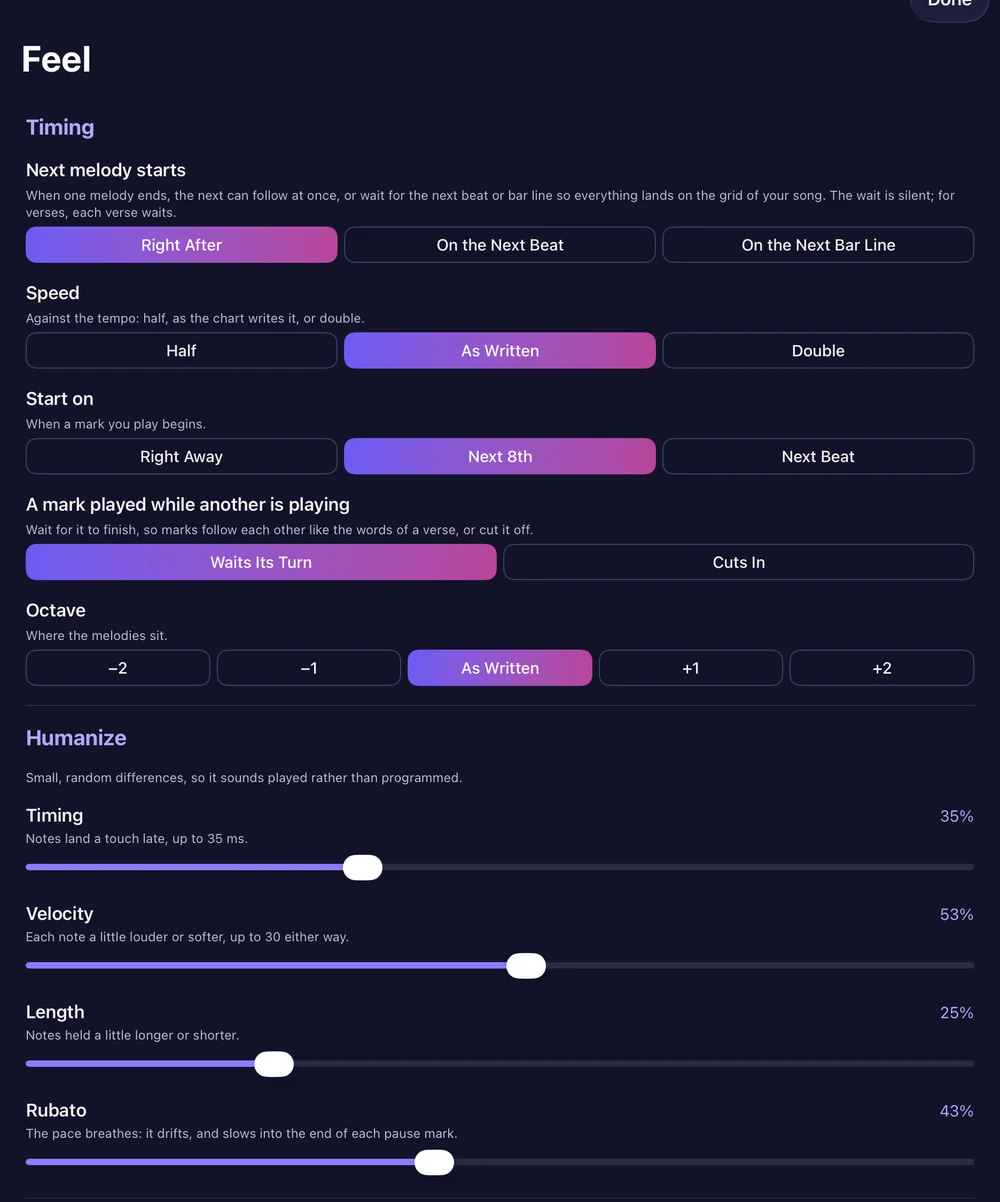
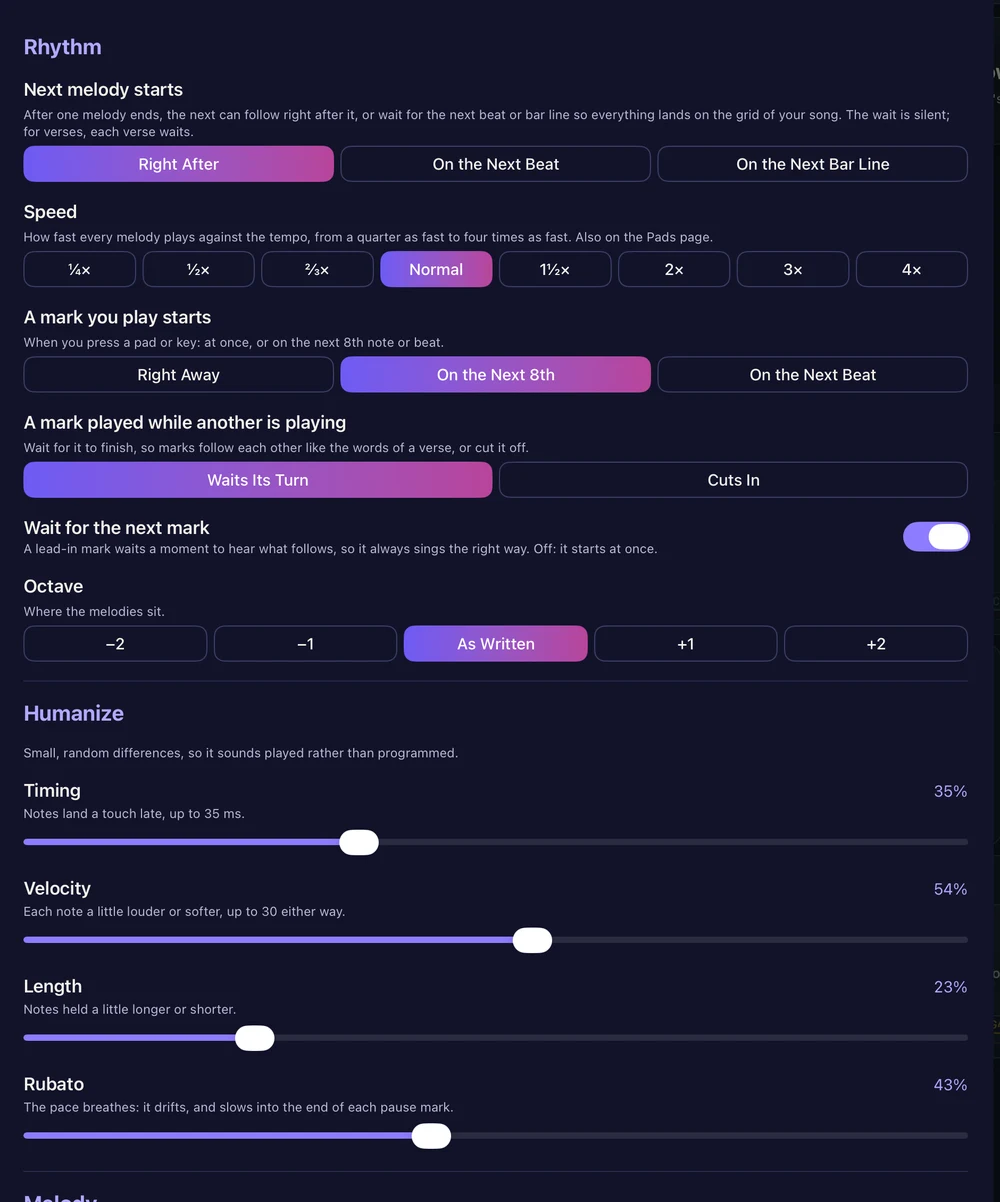
Site: By the Book, marks that change, Hold for Speed, Torah or Haftarah; screenshots retaken on build 61

diff --git a/index.html b/index.html
@@ -30,13 +30,13 @@
 <section class="hero">
   <p class="eyebrow">AUv3 MIDI effect for iPad</p>
   <h1>A melodic language your synths <em>have never spoken.</em></h1>
-  <p class="lede">Torah Tones plays the 25 melodic phrases of Torah chanting as MIDI: in any key, any mode, locked to your host's tempo. Put it in front of any synth or sampler and get phrases no arpeggiator will give you.</p>
+  <p class="lede">Torah Tones plays the 25 melodic phrases of Torah chanting as MIDI, Torah or Haftarah: in any key, any mode, locked to your host's tempo. Put it in front of any synth or sampler and get phrases no arpeggiator will give you.</p>
   <ul class="chips" aria-label="Works in"><li>AUM</li><li>Logic Pro for iPad</li><li>Loopy Pro</li><li>Cubasis</li><li>Drambo</li><li>Any AUv3 MIDI host</li></ul>
   <div class="cta">
       <a class="store-badge" data-store-live hidden href="#" aria-label="Download Torah Tones on the App Store"><picture><source srcset="img/app-store-badge-white.svg" media="(prefers-color-scheme: dark)"><img src="img/app-store-badge-black.svg" alt="Download on the App Store" width="132" height="44"></picture></a>
       <span class="soon" data-store-soon>Coming to the App Store</span>
   </div>
-  <div class="hero-shot"><img src="img/hero-ipad.webp?v=10" alt="Torah Tones on iPad: a sequence of phrases playing, with the 25 phrase pads below" width="1600" height="1200"></div>
+  <div class="hero-shot"><img src="img/hero-ipad.webp?v=11" alt="Torah Tones on iPad: Munach singing its tune before Zakef katon, By the Book lighting the marks that can come next" width="1600" height="1153"></div>
 </section>
 
 <section class="story" id="story"><div class="col">
@@ -47,8 +47,18 @@
 
 <div id="features"></div>
 <section class="feature violet">
-  <div class="text"><p class="label">Phrase pads</p><h2>25 phrases. One pad, one key each.</h2><p>Every pad fires a short melodic phrase, with its shape drawn right on the pad. Play them from the screen or from your keyboard, starting at C3, one key per phrase. Chain a few and they queue up in time, so a handful of keys plays a whole line.</p><ul><li>Phrases wait their turn, or cut each other off</li><li>The next phrase can start right away, on the next beat, or on the next bar line</li><li>Hold a key to sustain the phrase's first note, then let go for the rest</li><li>Keep them by family, in keyboard order, or drag them into your own layout</li><li>41 ready-made example lines, one tap each</li></ul></div>
-  <div class="pic"><img src="img/play-pads.webp?v=10" alt="The 25 phrase pads, grouped by family, with Sof pasuk playing" loading="lazy" width="1400" height="779"></div>
+  <div class="text"><p class="label">Phrase pads</p><h2>25 phrases. One pad, one key each.</h2><p>Every pad fires a short melodic phrase, with its shape drawn right on the pad. Play them from the screen or from your keyboard, starting at C3, one key per phrase. Chain a few and they queue up in time, so a handful of keys plays a whole line.</p><ul><li>Phrases wait their turn, or cut each other off</li><li>The next phrase can start right away, on the next beat, or on the next bar line</li><li>Hold a pad or key to play its phrase once, or repeat it until you let go</li><li>Keep them by family, in keyboard order, or drag them into your own layout; move any phrase to any key, by tapping or by MIDI learn</li><li>41 ready-made example lines, one tap each</li></ul></div>
+  <div class="pic"><img src="img/play-pads.webp?v=11" alt="The 25 phrase pads grouped by family, with Hold for Speed beside them" loading="lazy" width="1400" height="629"></div>
+</section>
+
+<section class="feature gold flip">
+  <div class="text"><p class="label">By the Book</p><h2>Play it the way a real verse goes</h2><p>Turn on By the Book and the pads follow the grammar of the Torah. After each phrase you play, the ones that can come next stay bright, the rare ones half dim, and the rest go dark, counted from all 5,846 verses. Every pad still plays, so it guides without getting in the way. Reset Verse starts again; free play is one tap away.</p><ul><li>Starts with the phrases that open a verse</li><li>Works on the Sequence page too, for realistic phrases in a few taps</li></ul></div>
+  <div class="pic"><img src="img/by-the-book.webp?v=1" alt="By the Book on: after Zakef katon, the phrases that can come next are bright and the rest are dimmed" loading="lazy" width="1400" height="774"></div>
+</section>
+
+<section class="feature teal">
+  <div class="text"><p class="label">Phrases that listen</p><h2>Some phrases change with the next one. So does this.</h2><p>In real chanting, a few phrases sing a different tune depending on what follows them: Munach before Zakef katon isn't Munach on its own. Torah Tones listens for the next phrase and sings the right one, even if you play it a moment later, and Now Playing tells you when it happens. Each family's “Munach changes here” lets you hear every change in place.</p><ul><li>Every change comes straight from the chart, for Torah and for Haftarah</li><li>Optional: let a lead-in wait a moment to hear what follows</li></ul></div>
+  <div class="pic narrow"><img src="img/changes.webp?v=1" alt="Munach changes here: Munach before Mahpach and Pashta, Munach before Zakef katon" loading="lazy" width="900" height="784"></div>
 </section>
 
 <section class="feature gold flip">
@@ -61,19 +71,29 @@
   <div class="pic"><img src="img/loop.webp?v=10" alt="A sequence of Mercha, Tipcha, Mercha, Sof pasuk and a rest, playing" loading="lazy" width="1400" height="387"></div>
 </section>
 
-<section class="feature teal flip">
-  <div class="text"><p class="label">Feel</p><h2>Played, not programmed</h2><p>Humanize the timing, velocity and note lengths. Add rubato that leans into the end of each phrase, and grace notes like a singer's. Flip phrases upside down or play them backwards, at half or double speed, for variations that still sound like they belong.</p></div>
-  <div class="pic narrow"><img src="img/feel.webp?v=9" alt="The Feel settings: timing, humanize and melody shape" loading="lazy" width="1000" height="1202"></div>
+<section class="feature violet flip">
+  <div class="text"><p class="label">Hold for speed</p><h2>Ride the speed like a DJ</h2><p>Hold a button beside the pads and every phrase plays at a quarter, half, dotted, double, triplet or four times the speed, then snaps back when you let go. Slide your finger up and down the column to move between speeds without lifting, while your other hand plays. The Speed slider sets where you come back to, from a quarter to four times, always on the beat.</p><ul><li>Keyswitches put the six speeds and four articulations (staccato to legato) on your keyboard</li><li>Learn any of them to the key you want, or put Speed and Articulation on a knob</li></ul></div>
+  <div class="pic"><img src="img/hold-speed.webp?v=1" alt="Hold for Speed: the Triplets button held while Mercha plays" loading="lazy" width="1000" height="898"></div>
 </section>
 
-<section class="feature gold">
+<section class="feature teal">
+  <div class="text"><p class="label">Feel</p><h2>Played, not programmed</h2><p>Humanize the timing, velocity and note lengths. Add rubato that leans into the end of each phrase, and grace notes like a singer's. Choose staccato to legato, and flip phrases upside down or play them backwards, for variations that still sound like they belong.</p></div>
+  <div class="pic narrow"><img src="img/feel.webp?v=10" alt="The Feel settings: when phrases start, eight speeds, humanize" loading="lazy" width="1000" height="1202"></div>
+</section>
+
+<section class="feature gold flip">
   <div class="text"><p class="label">The source</p><h2>Or play the real thing: any verse of the Torah</h2><p>Pick a book, chapter and verse, and Torah Tones plays the real passage as MIDI, word by word, each phrase fitted to its syllables, while the Hebrew lights up as it goes. Play the whole passage in time, step through it one word per key press, or loop it on your bar line.</p><ul><li>All Five Books, by chapter and verse or by weekly portion</li><li>English under every verse</li></ul></div>
   <div class="pic"><img src="img/verses.webp?v=9" alt="Genesis 1:1 to 1:3 being sent as MIDI, one word lit" loading="lazy" width="1400" height="634"></div>
 </section>
 
+<section class="feature pink">
+  <div class="text"><p class="label">Torah or Haftarah</p><h2>Two sets of melodies, one switch</h2><p>The same marks have a second set of melodies: Haftarah trope, sung for the reading from the Prophets, in a more plaintive minor. Switch at the top left and the pads, the sequence and all 40 chart lines move to it, every tune taken from the printed chart. The welcome lets you hear the same four phrases both ways.</p></div>
+  <div class="pic"><img src="img/torah-haftarah.webp?v=1" alt="Torah or Haftarah: hear the same four marks both ways, and choose which the pads play" loading="lazy" width="1000" height="764"></div>
+</section>
+
 <section class="feature violet flip">
-  <div class="text"><p class="label">New to trope?</p><h2>What you're playing</h2><p>Almost every word of the Hebrew Bible carries a tiny mark called a trope, and each mark stands for a short melody. Chanted in a row, they turn the text into music, and synagogues have sung them this way for well over a thousand years. Learn Trope explains it in eight short steps, with a button to hear every mark.</p><p>Want to learn to chant it yourself? <a href="https://torahturnit.com/">Torah: Turn It</a>, my other app, teaches it lesson by lesson.</p></div>
-  <div class="pic narrow"><img src="img/learn.webp?v=9" alt="The Learn Trope page" loading="lazy" width="1000" height="1202"></div>
+  <div class="text"><p class="label">New to trope?</p><h2>What you're playing</h2><p>Almost every word of the Hebrew Bible carries a tiny mark called a trope, and each mark stands for a short melody. Chanted in a row, they turn the text into music, and synagogues have sung them this way for well over a thousand years. Learn Trope explains it in eight short steps, with a button to hear every mark, and lets you hear how Munach changes before Zakef katon.</p><p>Want to learn to chant it yourself? <a href="https://torahturnit.com/">Torah: Turn It</a>, my other app, teaches it lesson by lesson.</p></div>
+  <div class="pic narrow"><img src="img/learn.webp?v=10" alt="The Learn Trope page: some marks change with the next one" loading="lazy" width="1000" height="1486"></div>
 </section>
 
 <section class="hosts">
